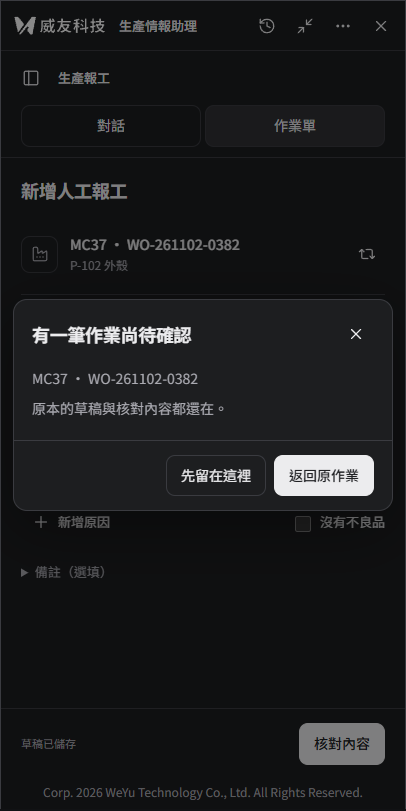
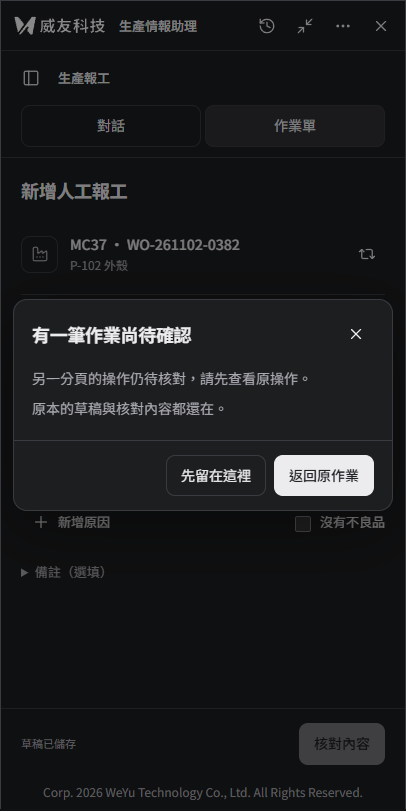
範例：依審查裁定修正第四段安全狀態與登入隔離

Changed region(s): [[0.0887, 0.4624, 0.7389, 0.4932], [0.7389, 0.894, 0.9458, 0.9556]]

diff --git a/docs/design/uiux-reference-v2/reference.html b/docs/design/uiux-reference-v2/reference.html
@@ -4059,7 +4059,7 @@ const chosen={"Home":[["path",{"d":"M15 21v-8a1 1 0 0 0-1-1h-4a1 1 0 0 0-1 1v8"}
     return `<form class="ux-compose ${compact?'compact':''}" data-compose="${where}"><label class="ux-sr" for="ux-composer">訊息</label><textarea id="ux-composer" data-input="draft" rows="${compact?1:2}" placeholder="${businessLocked()?'請先完成或查核目前操作':where==='picker'?'補充條件，或詢問這些資料…':where==='home'?'問資料，或說說你想完成的作業…':state.screen==='work'?'補充需求，或問我怎麼填…':'輸入訊息…'}" ${unavailable?'disabled':''}>${esc(state.draft)}</textarea><div class="ux-compose-bottom"><small>${where==='home'?'':where==='picker'?'對話與已選項目會保留':state.screen==='work'?'核對後才會送出':'Enter 送出 · Shift + Enter 換行'}</small>${loading?btn(icon('square'),'stop','icon ux-send','aria-label="停止查詢"'):btn(icon('arrow-up'),'send','icon ux-send',`aria-label="送出訊息" ${unavailable?'disabled':''}`)}</div></form>`;
   }
   function sidebar(){return `<aside class="ux-side" aria-label="聊天清單"><div class="ux-side-top">${btn(icon('square-pen')+'新聊天','new','ux-new')}<div class="ux-row" style="gap:0">${ibtn('search','搜尋聊天','search')}${ibtn('panel-left-close','收合側欄','collapse-side')}</div></div><div class="ux-side-list"><div class="ux-side-label">已釘選</div><div class="ux-history-row">${btn('每日生產追蹤','open-chat')}${ibtn('ellipsis','聊天選項','history-menu')}</div><div class="ux-history-row">${btn('本週排程調整','open-chat')}${ibtn('ellipsis','聊天選項','history-menu')}</div><div class="ux-side-label">最近聊天</div>${['MC37 今日生產','新增人工報工','模具上下模','查詢昨日產量','排程工單確認','生產異常追蹤','本週工單進度','修改報工數量','MC38 生產資料','模穴數調整'].map((t,i)=>`<div class="ux-history-row ${i===0&&state.screen!=='home'?'current':''}">${btn(t,'open-chat')}${ibtn('ellipsis','聊天選項','history-menu')}</div>`).join('')}</div><div class="ux-side-bottom ux-usage"><div class="ux-usage-row"><span>用量</span><span>US$2.21 / US$20.00</span></div><div class="ux-usage-bar" role="meter" aria-label="本次真實模型驗收用量" aria-valuemin="0" aria-valuemax="20" aria-valuenow="2.21"><span style="width:11%"></span></div></div></aside><button class="ux-grip" type="button" role="separator" aria-orientation="vertical" aria-label="調整側欄寬度" aria-valuemin="220" aria-valuemax="360" aria-valuenow="244" data-resize></button>`;}
-  function top(){const title=state.screen==='work'?(state.module==='report'?'生產報工':state.module==='schedule'?'生產排程':'模具上下模'):state.screen==='reports'?'定時報告':state.screen==='home'?'':'MC37 今日生產';return `<header class="ux-top"><div class="ux-top-title">${ibtn('panel-left','展開側欄','open-side','class="ux-phone-open"')}<span>${title}</span>${state.screen==='work'?`<span class="ux-tag">${state.mode==='sheet'?'聊天＋作業單':'分步精靈'}</span>`:''}</div></header>`;}
+  function top(){const title=state.screen==='system'?'':state.screen==='work'?(state.module==='report'?'生產報工':state.module==='schedule'?'生產排程':'模具上下模'):state.screen==='reports'?'定時報告':state.screen==='home'?'':'MC37 今日生產';return `<header class="ux-top"><div class="ux-top-title">${ibtn('panel-left','展開側欄','open-side','class="ux-phone-open"')}<span>${title}</span>${state.screen==='work'?`<span class="ux-tag">${state.mode==='sheet'?'聊天＋作業單':'分步精靈'}</span>`:''}</div></header>`;}
   function home(){return `<main class="ux-main-content"><div class="ux-home ux-enter"><h1>今天想完成什麼？</h1>${state.dialog?'':composer('home')}<div class="ux-quick">${btn(icon('calendar-days')+'生產排程','start-schedule')}${btn(icon('clipboard-list')+'生產報工','start-report')}${btn(icon('wrench')+'模具上下模','start-mold')}</div></div></main>`;}
   function chat(){
     const key=state.scene==='result-detail'?'results':state.scene;
@@ -4147,7 +4147,7 @@ const chosen={"Home":[["path",{"d":"M15 21v-8a1 1 0 0 0-1-1h-4a1 1 0 0 0-1 1v8"}
     else if(state.action==='complete'){title='整張排程已完工';summary='2 筆工單已完成，下一排程時間依核對內容更新。';}
     else if(state.action==='cavities'){title='報工模穴數已更新';summary='2 → '+(state.cavities??4)+' 穴';}
     else{title=state.action==='update'?'報工已更新':'報工已完成';summary='人工良品 '+state.good+' 件・不良 '+state.defects.reduce((n,d)=>n+Number(d.quantity),0)+' 件';}
-    return `<div class="ux-empty" style="text-align:left;align-items:flex-start;padding:20px 0">${icon('circle-check')}<h3>${title}</h3><p>${esc(summary)}</p><small>示範回執 · 未寫入 MES</small><div class="ux-row">${btn('查看紀錄','audit','small')}${btn('下一筆作業','next-operation','small ghost')}</div></div>`;
+    return `<div class="ux-empty" style="text-align:left;align-items:flex-start;padding:20px 0">${icon('circle-check')}<h3>${title}</h3><p>${esc(summary)}</p><small>模擬環境：此結果未寫入正式 MES。</small><div class="ux-row">${btn('查看紀錄','audit','small')}${btn('下一筆作業','next-operation','small ghost')}</div><details><summary>操作資訊</summary><p>操作識別碼：OP-DEMO-1102-0382</p><p>已證明的欄位異動：2</p><p>OK_QTY：— → 125</p><p>NG_QTY：— → 3</p></details></div>`;
   }
   function workContent(){if(['unknown','success'].includes(state.substate))return target()+receipt();if(!state.target)return `<div class="ux-empty">${icon('clipboard-list')}<h3>選擇要操作的工單</h3><p>搜尋設備或工單，確認後再帶入。</p>${btn(icon('search')+'選擇工單','picker','primary')}</div>`;return target()+`<div class="ux-stack" style="gap:16px">${workNotice()}${state.phase==='review'?review():state.module==='schedule'?scheduleForm():state.module==='mold'?moldForm():noFields()?'<p class="ux-muted">對象已選定，可以核對這次操作的影響。</p>':reportForm()}${state.phase==='review'?'<small>確認期限：11/02 10:00（MES）</small>':''}</div>`;}
   function workFooter(){
@@ -4158,7 +4158,7 @@ const chosen={"Home":[["path",{"d":"M15 21v-8a1 1 0 0 0-1-1h-4a1 1 0 0 0-1 1v8"}
       const blocked=['submitting','write-disabled','conflict','rejected'].includes(sub)||(['delete','clear','complete','down'].includes(state.action)&&!state.approved);
       return `${btn(noFields()?'返回選擇':'返回修改','back-edit','ghost',sub==='submitting'?'disabled':'')}<div class="ux-row">${btn('取消草稿','cancel-proposal','small ghost',sub==='submitting'?'disabled':'')}${sub==='expired'?btn('重新核對','refresh-preview','primary'):btn(sub==='submitting'?spin()+'送出中…':'確認送出','submit','primary',blocked?'disabled':'')}</div>`;
     }
-    return `<small>${sub==='saving'?`${spin()} 儲存中…`:sub==='save-error'?'尚未儲存':state.savingText}</small>${btn(state.mode==='wizard'?'下一步':'核對內容','review','primary',state.busy||sub==='save-error'?'disabled':'')}`;
+    return `<small>${sub==='saving'?`${spin()} 儲存中…`:['save-error','conflict'].includes(sub)?'尚未儲存':state.savingText}</small>${btn(state.mode==='wizard'?'下一步':'核對內容','review','primary',state.busy||['save-error','saving','conflict'].includes(sub)||state.scene==='recover-operation'?'disabled':'')}`;
   }
   function work(){
     const taskTitle=state.phase==='review'?'核對'+actionTitle().replace('新增','').replace('修改',''):actionTitle();
@@ -4169,7 +4169,7 @@ const chosen={"Home":[["path",{"d":"M15 21v-8a1 1 0 0 0-1-1h-4a1 1 0 0 0-1 1v8"}
       const step=!state.target?0:state.phase==='review'?labels.length-1:Math.min(1,labels.length-2);
       return `<main class="ux-wizard"><nav class="ux-steps" aria-label="作業進度">${labels.map((label,i)=>`<span class="ux-step ${i===step?'active':i<step?'done':''}" ${i===step?'aria-current="step"':''}><b>${i<step?icon('check'):i+1}</b>${label}</span>`).join('')}</nav><div class="ux-wizard-body"><div class="ux-wizard-inner ux-enter"><h2>${taskTitle}</h2>${workContent()}</div></div><div class="ux-sheet-foot">${workFooter()}</div>${state.dialog?'':`<div class="ux-wizard-talk"><div><div class="ux-wizard-answer">${esc(reply)}</div>${composer('wizard',true)}</div></div>`}</main>`;
     }
-    return `<div class="ux-mobile-switch" aria-label="工作區">${btn('對話','pane-chat',state.mobilePane==='chat'?'selected':'')}${btn('作業單','pane-task',state.mobilePane==='task'?'selected':'')}</div><main class="ux-work" data-pane="${state.mobilePane}"><section class="ux-work-chat" aria-label="對話"><div class="ux-conversation"><div class="ux-messages"><article class="ux-message user">${user}</article><article class="ux-message assistant"><p>${esc(reply)}</p>${!state.target?`<div class="ux-row">${btn(icon('search')+'選擇工單','picker','small')}</div>`:''}</article></div></div>${state.dialog?'':`<div class="ux-composer-wrap">${composer('work',true)}</div>`}</section><section class="ux-sheet" aria-label="本次作業單"><div class="ux-sheet-head"><h2>${taskTitle}</h2>${state.pending?'<span class="ux-tag">尚未送出</span>':''}</div><div class="ux-sheet-scroll ux-enter">${workContent()}</div><div class="ux-sheet-foot">${workFooter()}</div></section></main>`;
+    return `<div class="ux-mobile-switch" aria-label="工作區">${btn('對話','pane-chat',state.mobilePane==='chat'?'selected':'')}${btn('作業單','pane-task',state.mobilePane==='task'?'selected':'')}</div><main class="ux-work" data-pane="${state.mobilePane}"><section class="ux-work-chat" aria-label="對話"><div class="ux-conversation"><div class="ux-messages"><article class="ux-message user">${user}</article><article class="ux-message assistant"><p>${esc(reply)}</p>${!state.target?`<div class="ux-row">${btn(icon('search')+'選擇工單','picker','small')}</div>`:''}</article></div></div>${state.dialog?'':`<div class="ux-composer-wrap">${composer('work',true)}</div>`}</section><section class="ux-sheet" aria-label="本次作業單"><div class="ux-sheet-head"><h2>${taskTitle}</h2>${state.pending?`<span class="ux-tag">${({success:'已完成',rejected:'本次提交已拒絕',unknown:'結果待核對'})[state.substate]||'尚未送出'}</span>`:''}</div><div class="ux-sheet-scroll ux-enter">${workContent()}</div><div class="ux-sheet-foot">${workFooter()}</div></section></main>`;
   }
   function menu(){return `<div class="ux-menu" role="dialog" aria-label="更多功能">${[['settings-2','介面設定','preferences'],['archive','封存聊天','archives'],['trash-2','已刪除聊天','deleted'],['clock-3','定時報告','reports'],['chart-no-axes-combined','使用統計','usage']].map(([i,l,a])=>`<button type="button" data-action="${a}">${icon(i)}${l}</button>`).join('')}<hr>${[['key-round','API 設定','api'],['sliders-horizontal','Agent 設定','agent'],['gauge','用量額度','budget']].map(([i,l,a])=>`<button type="button" data-action="${a}">${icon(i)}${l}</button>`).join('')}</div>`;}
   function historyMenu(){return `<div class="ux-menu" role="dialog" aria-label="聊天選項">${[['pin','釘選','pin'],['pencil','重新命名','rename'],['archive','封存','archive-chat'],['trash-2','刪除','delete-chat']].map(([i,l,a])=>`<button type="button" data-action="${a}">${icon(i)}${l}</button>`).join('')}</div>`;}
@@ -4233,9 +4233,14 @@ const chosen={"Home":[["path",{"d":"M15 21v-8a1 1 0 0 0-1-1h-4a1 1 0 0 0-1 1v8"}
     app.dataset.theme=state.theme;app.classList.toggle('side-open',state.sideOpen);app.classList.toggle('side-collapsed',state.collapsed);
     const content=state.screen==='home'?home():state.screen==='chat'?chat():state.screen==='work'?work():state.screen==='reports'?reports():state.screen==='system'?system():information();
     app.innerHTML=`${appbar()}<div class="ux-body">${sidebar()}<div class="ux-main" ${state.dialog?'inert':''}>${top()}${content}<footer class="ux-copyright">Corp. 2026 WeYu Technology Co., Ltd. All Rights Reserved.</footer>${state.menu==='history'?historyMenu():state.menu?menu():''}</div></div>${state.dialog?dialog():''}${state.toast?`<div class="ux-toast" role="status">${icon('check')}${esc(state.toast)}</div>`:''}`;
+    if(state.screen==='system'){
+      app.querySelector('.ux-side-list').innerHTML='<p class="ux-muted ux-signed-out" style="padding:28px 10px;margin:0;text-align:center;font-size:13px">尚未登入</p>';
+      app.querySelector('.ux-usage-row span:last-child').textContent='尚未登入';
+      const usage=app.querySelector('.ux-usage-bar');usage.style.visibility='hidden';usage.removeAttribute('role');usage.removeAttribute('aria-valuenow');
+    }
     if(state.emptyHistory){app.querySelector('.ux-side-list').innerHTML='<div class="ux-empty" style="padding:28px 10px"><p>開始聊天後，紀錄會顯示在這裡。</p></div>';}
     if(state.dialog==='settings-state'||state.dialog==='panel-error'||state.dialog==='recover-operation'){
-      const content=state.dialog==='recover-operation'?modal('有一筆作業尚待確認',`<p>MC37 · WO-261102-0382</p><p style="margin-top:8px">原本的草稿與核對內容都還在。</p>`,btn('先留在這裡','close-dialog')+btn('返回原作業','restore-operation','primary')):modal(state.dialog==='settings-state'?'API 設定':'載入功能',state.sharedStatus==='loading'?`<div class="ux-live" role="status" aria-busy="true">${spin()}正在載入設定…</div>`:notice('暫時無法載入','關閉此視窗不會影響目前作業。','error'),btn('關閉','close-dialog')+(state.sharedStatus==='loading'?'':btn('重試','retry-panel','primary')),'medium');
+      const content=state.dialog==='recover-operation'?modal('有一筆作業尚待確認',`<p>另一分頁的操作仍待核對，請先查看原操作。</p><p style="margin-top:8px">原本的草稿與核對內容都還在。</p>`,btn('先留在這裡','close-dialog')+btn('返回原作業','restore-operation','primary')):modal(state.dialog==='settings-state'?'API 設定':'載入功能',state.sharedStatus==='loading'?`<div class="ux-live" role="status" aria-busy="true">${spin()}正在載入設定…</div>`:notice('暫時無法載入','關閉此視窗不會影響目前作業。','error'),btn('關閉','close-dialog')+(state.sharedStatus==='loading'?'':btn('重試','retry-panel','primary')),'medium');
       app.insertAdjacentHTML('beforeend',content);
     }
     app.querySelector('.ux-side')?.toggleAttribute('inert',!!state.dialog);

diff --git a/docs/design/uiux-reference-v2/reference-fragment.html b/docs/design/uiux-reference-v2/reference-fragment.html
@@ -363,7 +363,7 @@
     return `<form class="ux-compose ${compact?'compact':''}" data-compose="${where}"><label class="ux-sr" for="ux-composer">訊息</label><textarea id="ux-composer" data-input="draft" rows="${compact?1:2}" placeholder="${businessLocked()?'請先完成或查核目前操作':where==='picker'?'補充條件，或詢問這些資料…':where==='home'?'問資料，或說說你想完成的作業…':state.screen==='work'?'補充需求，或問我怎麼填…':'輸入訊息…'}" ${unavailable?'disabled':''}>${esc(state.draft)}</textarea><div class="ux-compose-bottom"><small>${where==='home'?'':where==='picker'?'對話與已選項目會保留':state.screen==='work'?'核對後才會送出':'Enter 送出 · Shift + Enter 換行'}</small>${loading?btn(icon('square'),'stop','icon ux-send','aria-label="停止查詢"'):btn(icon('arrow-up'),'send','icon ux-send',`aria-label="送出訊息" ${unavailable?'disabled':''}`)}</div></form>`;
   }
   function sidebar(){return `<aside class="ux-side" aria-label="聊天清單"><div class="ux-side-top">${btn(icon('square-pen')+'新聊天','new','ux-new')}<div class="ux-row" style="gap:0">${ibtn('search','搜尋聊天','search')}${ibtn('panel-left-close','收合側欄','collapse-side')}</div></div><div class="ux-side-list"><div class="ux-side-label">已釘選</div><div class="ux-history-row">${btn('每日生產追蹤','open-chat')}${ibtn('ellipsis','聊天選項','history-menu')}</div><div class="ux-history-row">${btn('本週排程調整','open-chat')}${ibtn('ellipsis','聊天選項','history-menu')}</div><div class="ux-side-label">最近聊天</div>${['MC37 今日生產','新增人工報工','模具上下模','查詢昨日產量','排程工單確認','生產異常追蹤','本週工單進度','修改報工數量','MC38 生產資料','模穴數調整'].map((t,i)=>`<div class="ux-history-row ${i===0&&state.screen!=='home'?'current':''}">${btn(t,'open-chat')}${ibtn('ellipsis','聊天選項','history-menu')}</div>`).join('')}</div><div class="ux-side-bottom ux-usage"><div class="ux-usage-row"><span>用量</span><span>US$2.21 / US$20.00</span></div><div class="ux-usage-bar" role="meter" aria-label="本次真實模型驗收用量" aria-valuemin="0" aria-valuemax="20" aria-valuenow="2.21"><span style="width:11%"></span></div></div></aside><button class="ux-grip" type="button" role="separator" aria-orientation="vertical" aria-label="調整側欄寬度" aria-valuemin="220" aria-valuemax="360" aria-valuenow="244" data-resize></button>`;}
-  function top(){const title=state.screen==='work'?(state.module==='report'?'生產報工':state.module==='schedule'?'生產排程':'模具上下模'):state.screen==='reports'?'定時報告':state.screen==='home'?'':'MC37 今日生產';return `<header class="ux-top"><div class="ux-top-title">${ibtn('panel-left','展開側欄','open-side','class="ux-phone-open"')}<span>${title}</span>${state.screen==='work'?`<span class="ux-tag">${state.mode==='sheet'?'聊天＋作業單':'分步精靈'}</span>`:''}</div></header>`;}
+  function top(){const title=state.screen==='system'?'':state.screen==='work'?(state.module==='report'?'生產報工':state.module==='schedule'?'生產排程':'模具上下模'):state.screen==='reports'?'定時報告':state.screen==='home'?'':'MC37 今日生產';return `<header class="ux-top"><div class="ux-top-title">${ibtn('panel-left','展開側欄','open-side','class="ux-phone-open"')}<span>${title}</span>${state.screen==='work'?`<span class="ux-tag">${state.mode==='sheet'?'聊天＋作業單':'分步精靈'}</span>`:''}</div></header>`;}
   function home(){return `<main class="ux-main-content"><div class="ux-home ux-enter"><h1>今天想完成什麼？</h1>${state.dialog?'':composer('home')}<div class="ux-quick">${btn(icon('calendar-days')+'生產排程','start-schedule')}${btn(icon('clipboard-list')+'生產報工','start-report')}${btn(icon('wrench')+'模具上下模','start-mold')}</div></div></main>`;}
   function chat(){
     const key=state.scene==='result-detail'?'results':state.scene;
@@ -451,7 +451,7 @@
     else if(state.action==='complete'){title='整張排程已完工';summary='2 筆工單已完成，下一排程時間依核對內容更新。';}
     else if(state.action==='cavities'){title='報工模穴數已更新';summary='2 → '+(state.cavities??4)+' 穴';}
     else{title=state.action==='update'?'報工已更新':'報工已完成';summary='人工良品 '+state.good+' 件・不良 '+state.defects.reduce((n,d)=>n+Number(d.quantity),0)+' 件';}
-    return `<div class="ux-empty" style="text-align:left;align-items:flex-start;padding:20px 0">${icon('circle-check')}<h3>${title}</h3><p>${esc(summary)}</p><small>示範回執 · 未寫入 MES</small><div class="ux-row">${btn('查看紀錄','audit','small')}${btn('下一筆作業','next-operation','small ghost')}</div></div>`;
+    return `<div class="ux-empty" style="text-align:left;align-items:flex-start;padding:20px 0">${icon('circle-check')}<h3>${title}</h3><p>${esc(summary)}</p><small>模擬環境：此結果未寫入正式 MES。</small><div class="ux-row">${btn('查看紀錄','audit','small')}${btn('下一筆作業','next-operation','small ghost')}</div><details><summary>操作資訊</summary><p>操作識別碼：OP-DEMO-1102-0382</p><p>已證明的欄位異動：2</p><p>OK_QTY：— → 125</p><p>NG_QTY：— → 3</p></details></div>`;
   }
   function workContent(){if(['unknown','success'].includes(state.substate))return target()+receipt();if(!state.target)return `<div class="ux-empty">${icon('clipboard-list')}<h3>選擇要操作的工單</h3><p>搜尋設備或工單，確認後再帶入。</p>${btn(icon('search')+'選擇工單','picker','primary')}</div>`;return target()+`<div class="ux-stack" style="gap:16px">${workNotice()}${state.phase==='review'?review():state.module==='schedule'?scheduleForm():state.module==='mold'?moldForm():noFields()?'<p class="ux-muted">對象已選定，可以核對這次操作的影響。</p>':reportForm()}${state.phase==='review'?'<small>確認期限：11/02 10:00（MES）</small>':''}</div>`;}
   function workFooter(){
@@ -462,7 +462,7 @@
       const blocked=['submitting','write-disabled','conflict','rejected'].includes(sub)||(['delete','clear','complete','down'].includes(state.action)&&!state.approved);
       return `${btn(noFields()?'返回選擇':'返回修改','back-edit','ghost',sub==='submitting'?'disabled':'')}<div class="ux-row">${btn('取消草稿','cancel-proposal','small ghost',sub==='submitting'?'disabled':'')}${sub==='expired'?btn('重新核對','refresh-preview','primary'):btn(sub==='submitting'?spin()+'送出中…':'確認送出','submit','primary',blocked?'disabled':'')}</div>`;
     }
-    return `<small>${sub==='saving'?`${spin()} 儲存中…`:sub==='save-error'?'尚未儲存':state.savingText}</small>${btn(state.mode==='wizard'?'下一步':'核對內容','review','primary',state.busy||sub==='save-error'?'disabled':'')}`;
+    return `<small>${sub==='saving'?`${spin()} 儲存中…`:['save-error','conflict'].includes(sub)?'尚未儲存':state.savingText}</small>${btn(state.mode==='wizard'?'下一步':'核對內容','review','primary',state.busy||['save-error','saving','conflict'].includes(sub)||state.scene==='recover-operation'?'disabled':'')}`;
   }
   function work(){
     const taskTitle=state.phase==='review'?'核對'+actionTitle().replace('新增','').replace('修改',''):actionTitle();
@@ -473,7 +473,7 @@
       const step=!state.target?0:state.phase==='review'?labels.length-1:Math.min(1,labels.length-2);
       return `<main class="ux-wizard"><nav class="ux-steps" aria-label="作業進度">${labels.map((label,i)=>`<span class="ux-step ${i===step?'active':i<step?'done':''}" ${i===step?'aria-current="step"':''}><b>${i<step?icon('check'):i+1}</b>${label}</span>`).join('')}</nav><div class="ux-wizard-body"><div class="ux-wizard-inner ux-enter"><h2>${taskTitle}</h2>${workContent()}</div></div><div class="ux-sheet-foot">${workFooter()}</div>${state.dialog?'':`<div class="ux-wizard-talk"><div><div class="ux-wizard-answer">${esc(reply)}</div>${composer('wizard',true)}</div></div>`}</main>`;
     }
-    return `<div class="ux-mobile-switch" aria-label="工作區">${btn('對話','pane-chat',state.mobilePane==='chat'?'selected':'')}${btn('作業單','pane-task',state.mobilePane==='task'?'selected':'')}</div><main class="ux-work" data-pane="${state.mobilePane}"><section class="ux-work-chat" aria-label="對話"><div class="ux-conversation"><div class="ux-messages"><article class="ux-message user">${user}</article><article class="ux-message assistant"><p>${esc(reply)}</p>${!state.target?`<div class="ux-row">${btn(icon('search')+'選擇工單','picker','small')}</div>`:''}</article></div></div>${state.dialog?'':`<div class="ux-composer-wrap">${composer('work',true)}</div>`}</section><section class="ux-sheet" aria-label="本次作業單"><div class="ux-sheet-head"><h2>${taskTitle}</h2>${state.pending?'<span class="ux-tag">尚未送出</span>':''}</div><div class="ux-sheet-scroll ux-enter">${workContent()}</div><div class="ux-sheet-foot">${workFooter()}</div></section></main>`;
+    return `<div class="ux-mobile-switch" aria-label="工作區">${btn('對話','pane-chat',state.mobilePane==='chat'?'selected':'')}${btn('作業單','pane-task',state.mobilePane==='task'?'selected':'')}</div><main class="ux-work" data-pane="${state.mobilePane}"><section class="ux-work-chat" aria-label="對話"><div class="ux-conversation"><div class="ux-messages"><article class="ux-message user">${user}</article><article class="ux-message assistant"><p>${esc(reply)}</p>${!state.target?`<div class="ux-row">${btn(icon('search')+'選擇工單','picker','small')}</div>`:''}</article></div></div>${state.dialog?'':`<div class="ux-composer-wrap">${composer('work',true)}</div>`}</section><section class="ux-sheet" aria-label="本次作業單"><div class="ux-sheet-head"><h2>${taskTitle}</h2>${state.pending?`<span class="ux-tag">${({success:'已完成',rejected:'本次提交已拒絕',unknown:'結果待核對'})[state.substate]||'尚未送出'}</span>`:''}</div><div class="ux-sheet-scroll ux-enter">${workContent()}</div><div class="ux-sheet-foot">${workFooter()}</div></section></main>`;
   }
   function menu(){return `<div class="ux-menu" role="dialog" aria-label="更多功能">${[['settings-2','介面設定','preferences'],['archive','封存聊天','archives'],['trash-2','已刪除聊天','deleted'],['clock-3','定時報告','reports'],['chart-no-axes-combined','使用統計','usage']].map(([i,l,a])=>`<button type="button" data-action="${a}">${icon(i)}${l}</button>`).join('')}<hr>${[['key-round','API 設定','api'],['sliders-horizontal','Agent 設定','agent'],['gauge','用量額度','budget']].map(([i,l,a])=>`<button type="button" data-action="${a}">${icon(i)}${l}</button>`).join('')}</div>`;}
   function historyMenu(){return `<div class="ux-menu" role="dialog" aria-label="聊天選項">${[['pin','釘選','pin'],['pencil','重新命名','rename'],['archive','封存','archive-chat'],['trash-2','刪除','delete-chat']].map(([i,l,a])=>`<button type="button" data-action="${a}">${icon(i)}${l}</button>`).join('')}</div>`;}
@@ -537,9 +537,14 @@
     app.dataset.theme=state.theme;app.classList.toggle('side-open',state.sideOpen);app.classList.toggle('side-collapsed',state.collapsed);
     const content=state.screen==='home'?home():state.screen==='chat'?chat():state.screen==='work'?work():state.screen==='reports'?reports():state.screen==='system'?system():information();
     app.innerHTML=`${appbar()}<div class="ux-body">${sidebar()}<div class="ux-main" ${state.dialog?'inert':''}>${top()}${content}<footer class="ux-copyright">Corp. 2026 WeYu Technology Co., Ltd. All Rights Reserved.</footer>${state.menu==='history'?historyMenu():state.menu?menu():''}</div></div>${state.dialog?dialog():''}${state.toast?`<div class="ux-toast" role="status">${icon('check')}${esc(state.toast)}</div>`:''}`;
+    if(state.screen==='system'){
+      app.querySelector('.ux-side-list').innerHTML='<p class="ux-muted ux-signed-out" style="padding:28px 10px;margin:0;text-align:center;font-size:13px">尚未登入</p>';
+      app.querySelector('.ux-usage-row span:last-child').textContent='尚未登入';
+      const usage=app.querySelector('.ux-usage-bar');usage.style.visibility='hidden';usage.removeAttribute('role');usage.removeAttribute('aria-valuenow');
+    }
     if(state.emptyHistory){app.querySelector('.ux-side-list').innerHTML='<div class="ux-empty" style="padding:28px 10px"><p>開始聊天後，紀錄會顯示在這裡。</p></div>';}
     if(state.dialog==='settings-state'||state.dialog==='panel-error'||state.dialog==='recover-operation'){
-      const content=state.dialog==='recover-operation'?modal('有一筆作業尚待確認',`<p>MC37 · WO-261102-0382</p><p style="margin-top:8px">原本的草稿與核對內容都還在。</p>`,btn('先留在這裡','close-dialog')+btn('返回原作業','restore-operation','primary')):modal(state.dialog==='settings-state'?'API 設定':'載入功能',state.sharedStatus==='loading'?`<div class="ux-live" role="status" aria-busy="true">${spin()}正在載入設定…</div>`:notice('暫時無法載入','關閉此視窗不會影響目前作業。','error'),btn('關閉','close-dialog')+(state.sharedStatus==='loading'?'':btn('重試','retry-panel','primary')),'medium');
+      const content=state.dialog==='recover-operation'?modal('有一筆作業尚待確認',`<p>另一分頁的操作仍待核對，請先查看原操作。</p><p style="margin-top:8px">原本的草稿與核對內容都還在。</p>`,btn('先留在這裡','close-dialog')+btn('返回原作業','restore-operation','primary')):modal(state.dialog==='settings-state'?'API 設定':'載入功能',state.sharedStatus==='loading'?`<div class="ux-live" role="status" aria-busy="true">${spin()}正在載入設定…</div>`:notice('暫時無法載入','關閉此視窗不會影響目前作業。','error'),btn('關閉','close-dialog')+(state.sharedStatus==='loading'?'':btn('重試','retry-panel','primary')),'medium');
       app.insertAdjacentHTML('beforeend',content);
     }
     app.querySelector('.ux-side')?.toggleAttribute('inert',!!state.dialog);

diff --git a/docs/design/uiux-reference-v2/README.md b/docs/design/uiux-reference-v2/README.md
@@ -26,6 +26,11 @@
 
 5. 模具四階段原範例未呈現真實卡控；依 PR #64 第 2 輪審查裁定，以 B08 fixture 同步階段原因與停用狀態，統一「清除換模紀錄…」入口及停用原因，並納入產品既有查詢歷史入口的文字按鈕呈現。
 
+6. 儲存中 W02 與版本衝突 W04 原範例仍開放核對，衝突還標示已儲存；依 PR #65 第 1 輪審查裁定停用核對，衝突顯示「尚未儲存」，保留先讀取最新資料的提示。
+7. W07／W08／W09 原範例將完成、拒絕、未知都標為「尚未送出」；依審查裁定分別改為「已完成」「本次提交已拒絕」「結果待核對」。W07 同步模擬環境聲明與收合的操作資訊，W09 只留查核入口。
+8. X01–X03 原範例未登入仍顯示前人的聊天、用量與名稱；依審查裁定改為「尚未登入」空狀態及用量文字，移除前人的作業名稱，保留外框與底列位置。
+9. X05 原範例未讀取原操作就顯示特定設備工單，背景核對仍可按；依審查裁定改用中立說明並停用背景核對。
+
 ## 檔案
 
 | 檔案 | 用途 |
